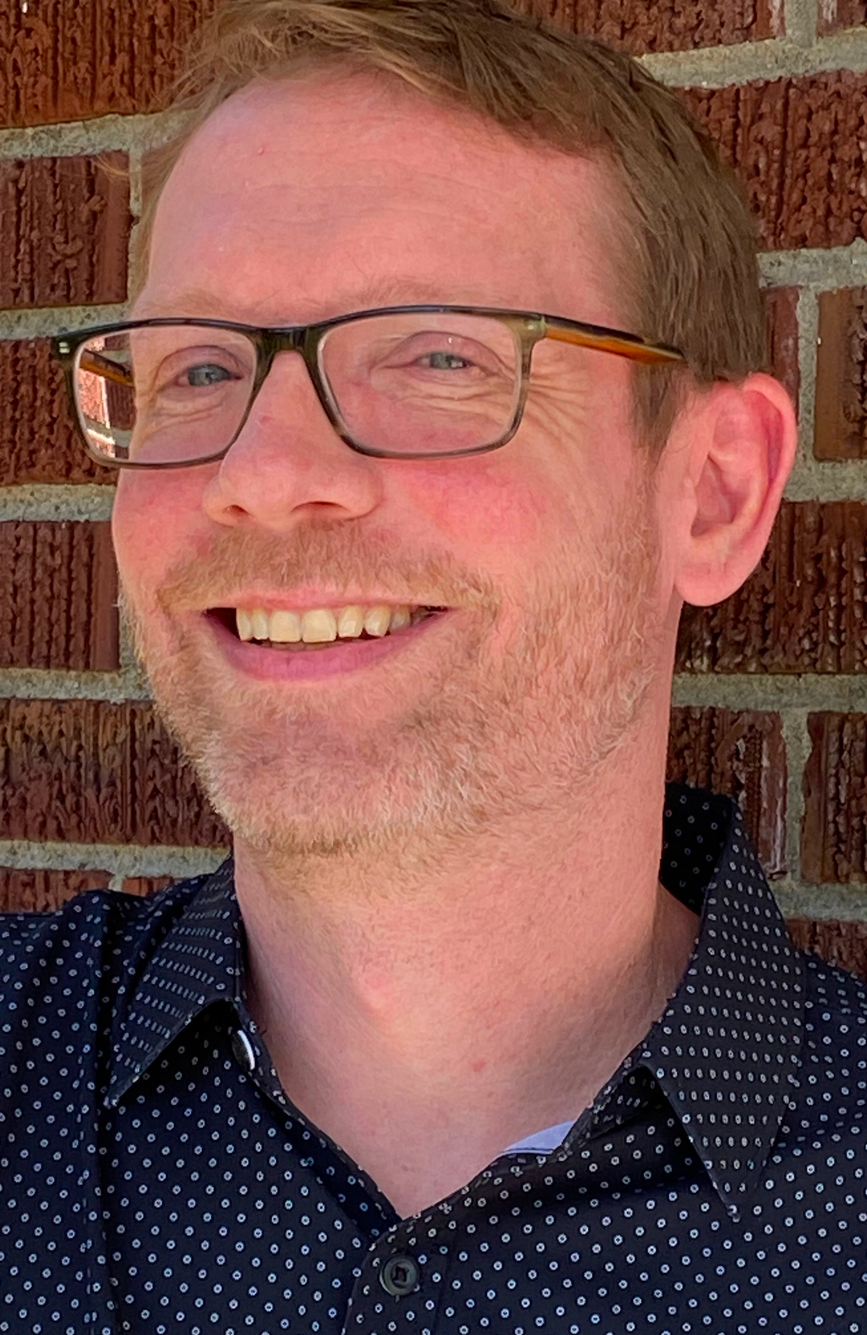
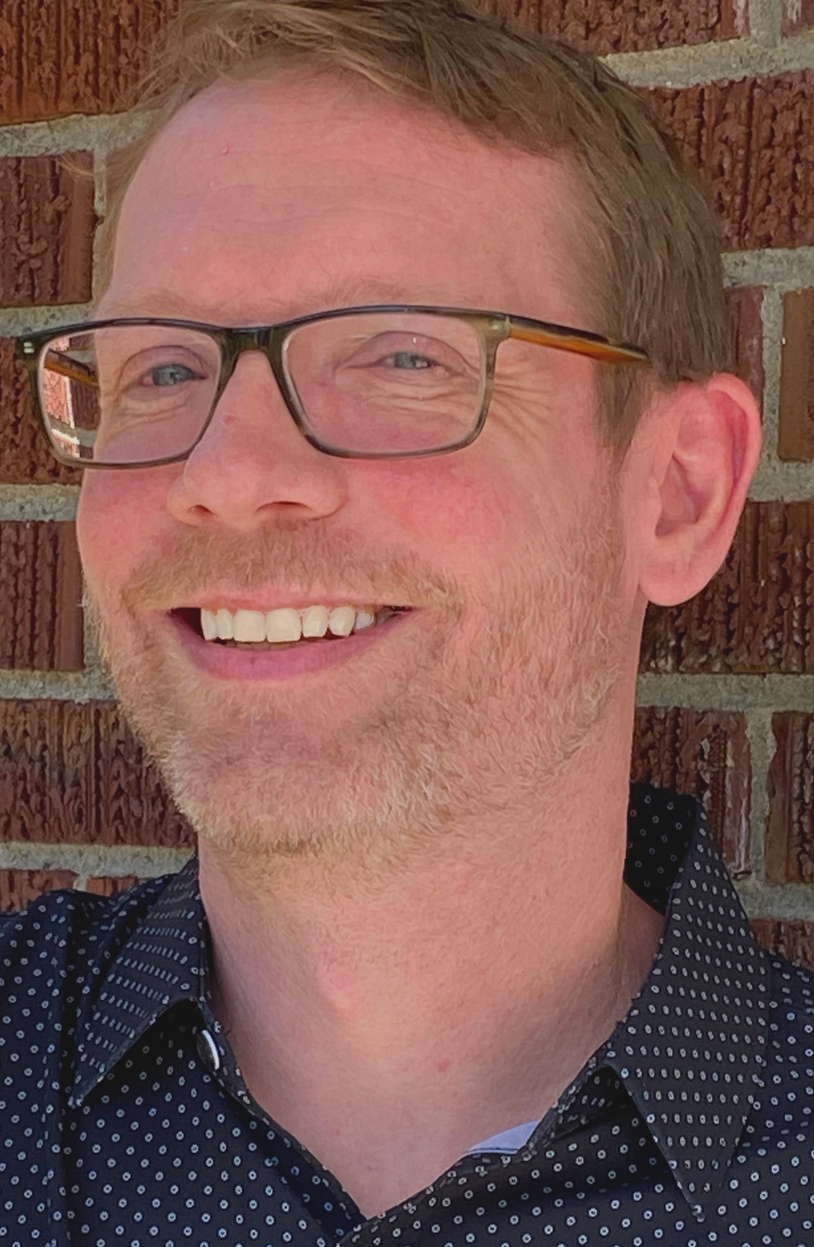
completes basic About Component

diff --git a/components/About.jsx b/components/About.jsx
@@ -10,16 +10,35 @@ const About = () => {
           <h2 className="py-4">Who I Am</h2>
           <p className="py-2 text-gray-600">I am not your average developer</p>
 
-          <p className="py-2 text-gray-600">Bio goes here 1st paragraph</p>
+          <p className="py-2 text-gray-600">I come from the banks of the 
+          Mississippi, where I was born and raised...Memphis, TN to be exact.
+          I come from a family of musicians, artists, and (yes indeed) software 
+          'techies'. I, myself, chose the path of music at a young age, and ran
+          with it. Most of my professional years have been spent on the road and 
+          in recording studios. I toured, recorded and taught music. Music was my life!
+          But...something was missing. I needed a change, a new start. So I
+          picked up and moved on (a new city, a new life).</p>
 
-          <p className="py-2 text-gray-600">Bio goes here 2nd paragraph</p>
+          <p className="py-2 text-gray-600">I enrolled in
+          Vanderbilt University's Full Stack Coding Bootcamp. I felt like I
+          would be a perfect candidate to take on this challenge, express my
+          love for problem solving, and to flex my creative muscles. I've
+          enjoyed every second of it, and hope to make a very fruitful career of
+          it.</p>
 
-          <p className="py-2 text-gray-600">Bio goes here 3rd paragraph</p>
+          <p className="py-2 text-gray-600">I am always learning, and always 
+          thirsty for knowledge. Finding this avenue is beyond exciting for me! 
+          I began this journey with only basic computer skills, and some graphic 
+          design experience, and now...well...let's just say, "I've come a long 
+          way!" With that said, please review my portfolio. You might find that 
+          I am willing and able to team up, learn new skills, and adapt to new 
+          environments.</p>
 
           <p className="py-2 text-gray-600 underline cursor-pointer">Check out some of my latest projects.</p>
         </div>
-        <div>
+        <div className="w-[65%] h-auto m-auto shadow-xl shadow-gray-400 rounded-xl flex items-center justify-center p-6 hover:scale-105 ease-in duration-300">
           <Image
+            className="rounded-xl"
             src="/../public/assets/profilePic.jpg"
             alt="/"
             width="200"

diff --git a/components/Main.jsx b/components/Main.jsx
@@ -16,10 +16,10 @@ const Main = () => {
           </h1>
           <h1 className="py-2 text-gray-700">A Software Developer</h1>
           <p className="py-4 text-gray-600 max-w-[70%] m-auto">
-            I'm a Certified Full-Stack Web Developer with a focus on front-end
-            web design. I'm currently employeed with Coroutine as a Junior
-            Software developer, while continuing to broaden my knowledge of
-            back-end technologies.
+            I'm a Graduate of Vanderblt University's Full-Stack Coding Bootcamp. I'm 
+            currently employeed as a Junior Software Developer where I focus on front-end 
+            web development. I also continue to study full-stack best practices, as I further
+            my knowledge and skills in the latest software development technologies.
           </p>
           <div className="flex items-center justify-between max-w-[330px] m-auto py-4">
             <div className="rounded-full shadow-lg shadow-gray-400 p-6 cursor-pointer hover:scale-110 ease-in duration-300">
